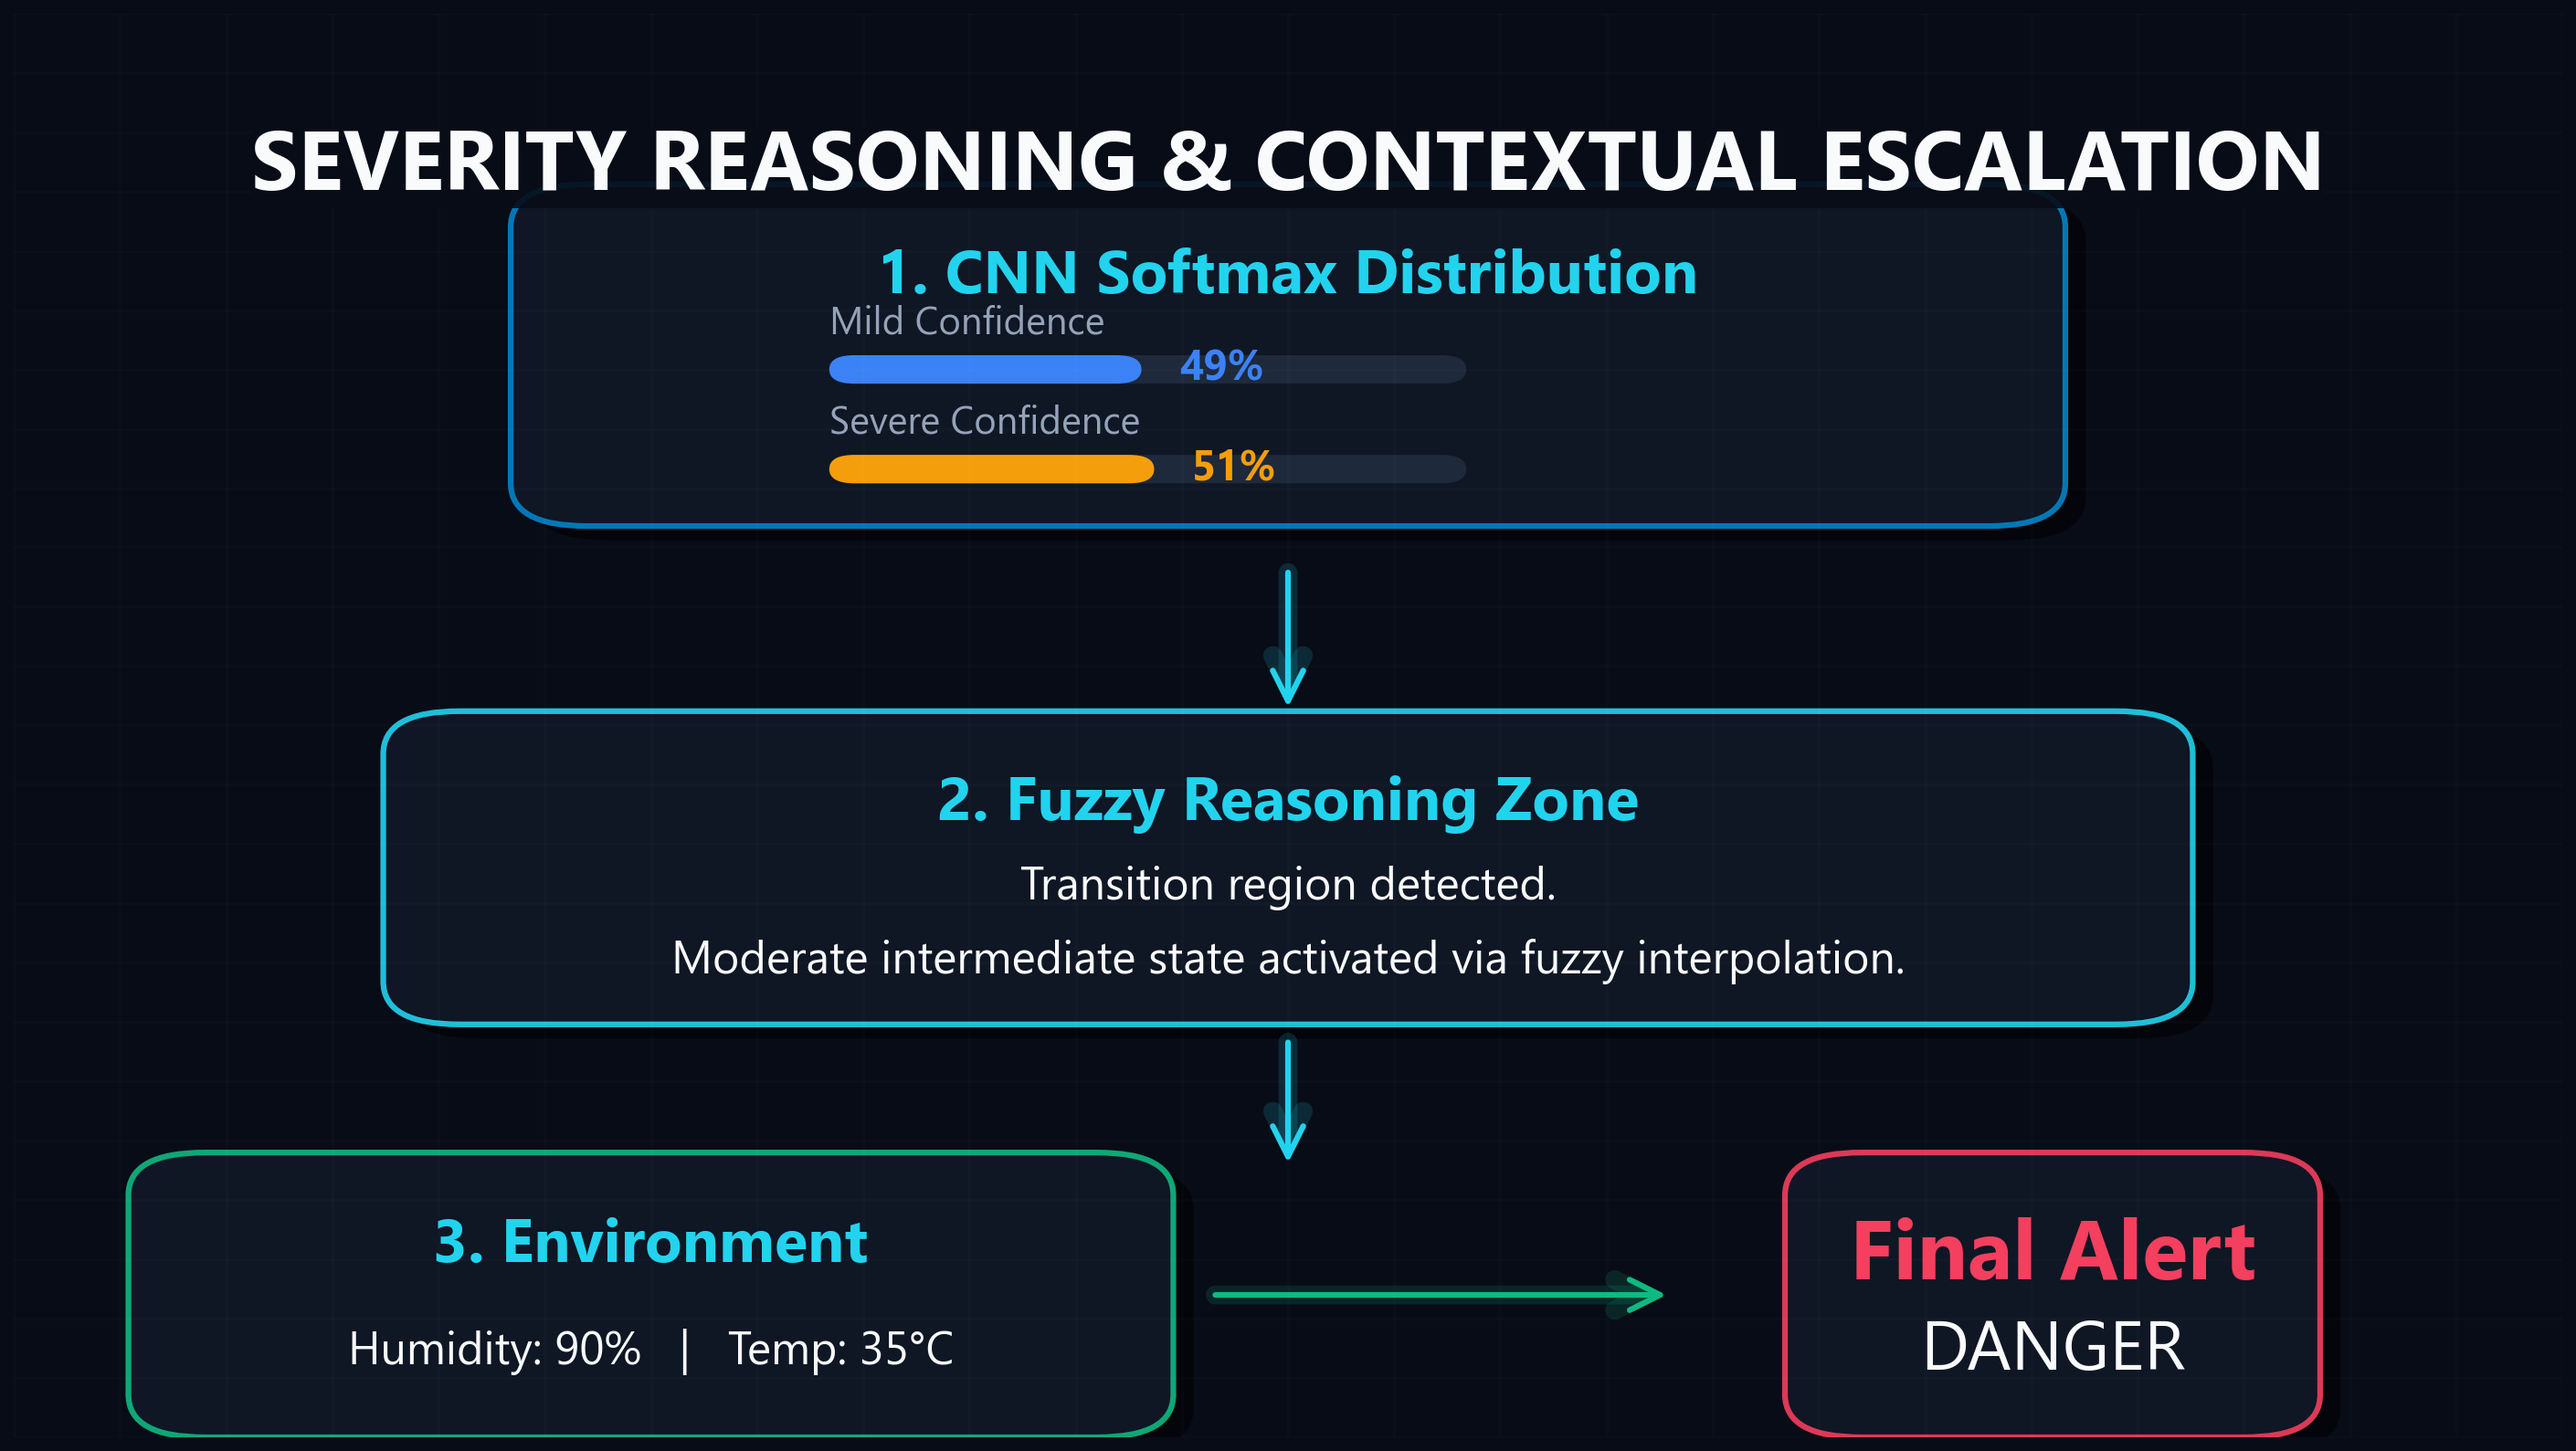
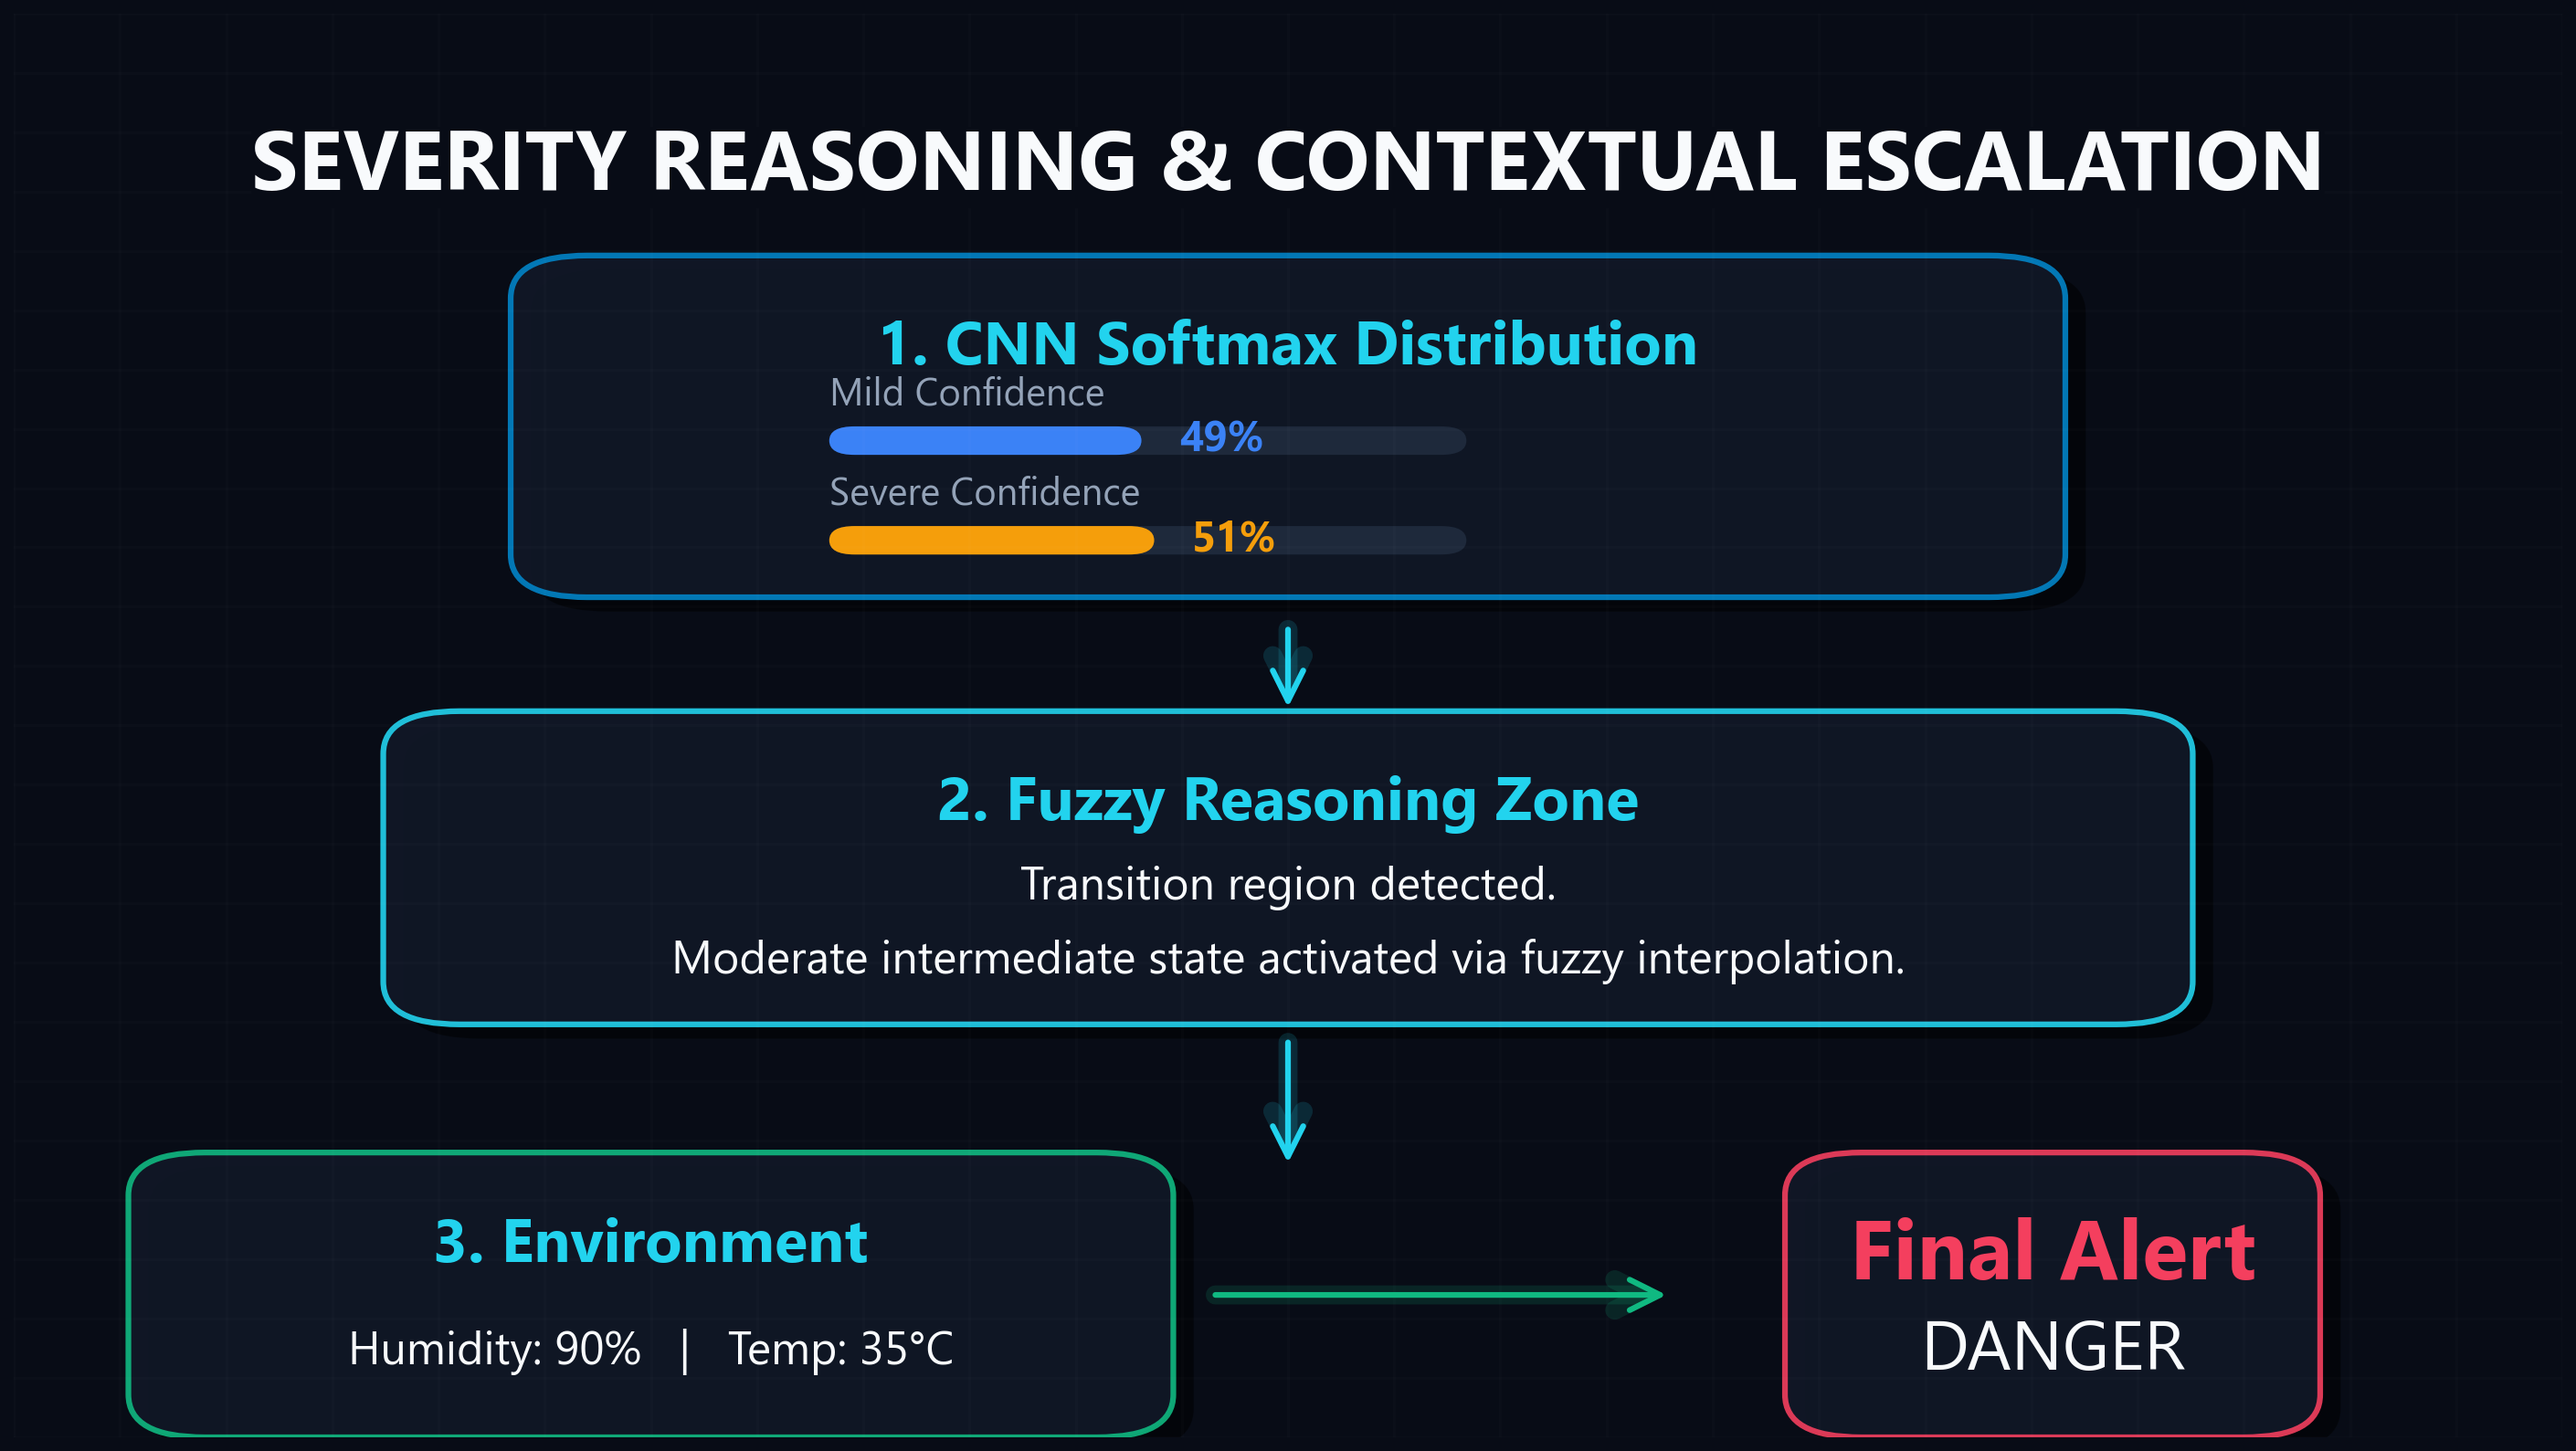
style: Shift top box in fig_02 down to prevent overlap with main title

Changed region(s): [[0.1872, 0.1542, 0.8113, 0.4317]]

diff --git a/scripts/generate_academic_figures.py b/scripts/generate_academic_figures.py
@@ -116,11 +116,11 @@ def fig_02_severity_pipeline():
     fig, ax = create_figure()
     draw_title(ax, "SEVERITY REASONING & CONTEXTUAL ESCALATION")
     
-    draw_glass_box(ax, 0.5, 0.76, 0.55, 0.18, title="1. CNN Softmax Distribution", border="#0284c7")
-    draw_bar(ax, 0.32, 0.74, 0.25, 0.02, 0.49, "#3b82f6", "Mild Confidence")
-    draw_bar(ax, 0.32, 0.67, 0.25, 0.02, 0.51, WARNING_ORANGE, "Severe Confidence")
+    draw_glass_box(ax, 0.5, 0.71, 0.55, 0.18, title="1. CNN Softmax Distribution", border="#0284c7")
+    draw_bar(ax, 0.32, 0.69, 0.25, 0.02, 0.49, "#3b82f6", "Mild Confidence")
+    draw_bar(ax, 0.32, 0.62, 0.25, 0.02, 0.51, WARNING_ORANGE, "Severe Confidence")
     
-    draw_glow_arrow(ax, 0.5, 0.61, 0.5, 0.51)
+    draw_glow_arrow(ax, 0.5, 0.57, 0.5, 0.51)
     
     draw_glass_box(ax, 0.5, 0.40, 0.65, 0.16, title="2. Fuzzy Reasoning Zone", 
                    text="Transition region detected.\nModerate intermediate state activated via fuzzy interpolation.", border=CYAN_GLOW, fontsize=24)
